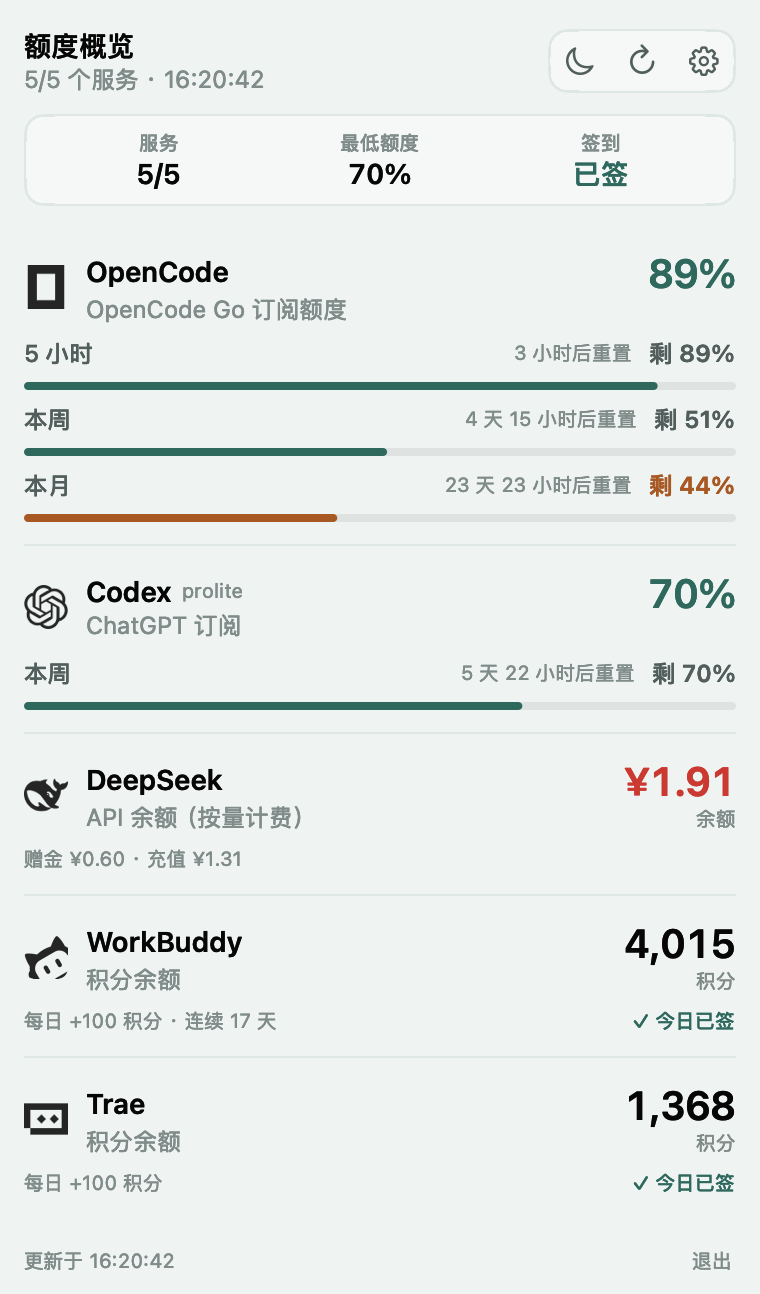
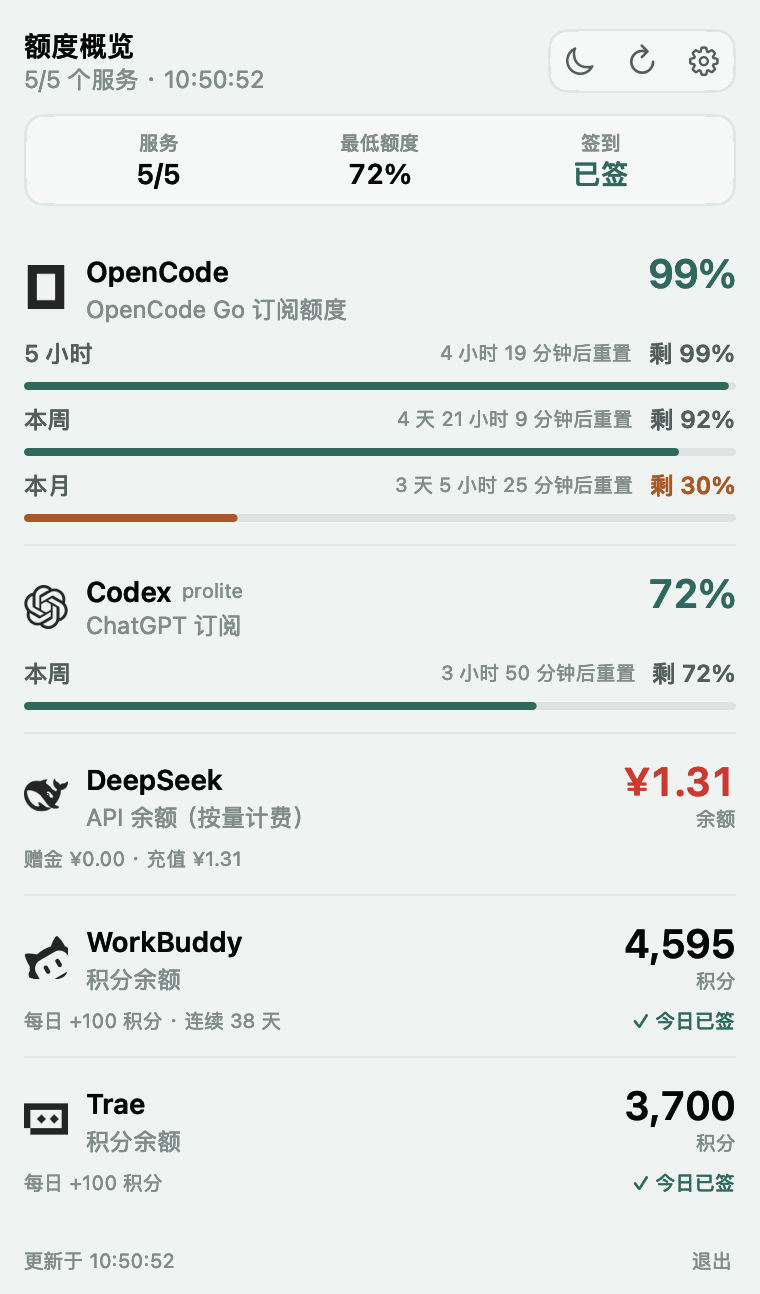
Precise minute resets and proxy fallback

diff --git a/collector/collector.js b/collector/collector.js
@@ -95,33 +95,47 @@ function proxyFor(url) {
 function http(url, opts = {}) {
   const { method = 'GET', headers = {}, body = null, timeout = 25 } = opts;
   const proxy = proxyFor(url);
-  const args = ['-sS', '--compressed', '-m', String(timeout), '-w', '\n__AQB_STATUS__%{http_code}'];
-  if (proxy) args.push('--proxy', proxy);
-  for (const [k, v] of Object.entries(headers)) {
-    if (v !== undefined && v !== null && v !== '') args.push('-H', `${k}: ${v}`);
-  }
-  if (body !== null) args.push('--data-binary', body);
-  args.push(url);
+  // 代理优先；代理挂掉/端口没开时再直连，避免换网络后一直超时。
+  const candidates = [];
+  if (proxy) candidates.push(proxy);
+  candidates.push(null);
 
-  let out;
-  try {
-    out = execFileSync('curl', args, {
-      encoding: 'utf8',
-      maxBuffer: 16 * 1024 * 1024,
-      timeout: (timeout + 5) * 1000,
-    });
-  } catch (e) {
-    const msg = String(e.stderr || e.message || e).trim().split('\n')[0];
-    throw new Error(`网络请求失败（${new URL(url).hostname}）：${msg}`);
+  let firstError = null;
+  let lastError = null;
+  for (const candidate of candidates) {
+    const args = ['-sS', '--compressed', '-m', String(timeout), '-w', '\n__AQB_STATUS__%{http_code}'];
+    if (candidate) args.push('--proxy', candidate);
+    else if (proxy) args.push('--noproxy', '*');
+    for (const [k, v] of Object.entries(headers)) {
+      if (v !== undefined && v !== null && v !== '') args.push('-H', `${k}: ${v}`);
+    }
+    if (body !== null) args.push('--data-binary', body);
+    args.push(url);
+
+    let out;
+    try {
+      out = execFileSync('curl', args, {
+        encoding: 'utf8',
+        maxBuffer: 16 * 1024 * 1024,
+        timeout: (timeout + 5) * 1000,
+      });
+    } catch (e) {
+      const msg = String(e.stderr || e.message || e).trim().split('\n')[0];
+      const error = `网络请求失败（${new URL(url).hostname}）：${msg}`;
+      if (!firstError) firstError = error;
+      lastError = error;
+      continue;
+    }
+    const match = out.match(/__AQB_STATUS__(\d+)\s*$/);
+    const status = match ? Number(match[1]) : 0;
+    const text = match ? out.slice(0, match.index) : out;
+    let json = null;
+    try {
+      json = JSON.parse(text);
+    } catch {}
+    return { status, text, json };
   }
-  const match = out.match(/__AQB_STATUS__(\d+)\s*$/);
-  const status = match ? Number(match[1]) : 0;
-  const text = match ? out.slice(0, match.index) : out;
-  let json = null;
-  try {
-    json = JSON.parse(text);
-  } catch {}
-  return { status, text, json };
+  throw new Error(firstError || lastError || '网络请求失败');
 }
 
 function pick(obj, ...paths) {
@@ -155,14 +169,21 @@ function fmtMoney(n, currency) {
 function fmtReset(ts) {
   if (!ts) return '';
   const diff = Math.max(0, ts - Date.now());
-  const mins = Math.round(diff / 60000);
-  if (mins < 1) return '即将重置';
-  if (mins < 60) return `${mins} 分钟后重置`;
-  const hours = Math.floor(mins / 60);
-  if (hours < 48) return `${hours} 小时后重置`;
-  const days = Math.floor(hours / 24);
-  const rest = hours % 24;
-  return rest === 0 ? `${days} 天后重置` : `${days} 天 ${rest} 小时后重置`;
+  const totalMinutes = Math.floor(diff / 60000);
+  if (totalMinutes < 1) return '即将重置';
+  const days = Math.floor(totalMinutes / 1440);
+  const hours = Math.floor((totalMinutes % 1440) / 60);
+  const mins = totalMinutes % 60;
+  if (days > 0) {
+    if (hours === 0 && mins === 0) return `${days} 天后重置`;
+    if (mins === 0) return `${days} 天 ${hours} 小时后重置`;
+    return `${days} 天 ${hours} 小时 ${mins} 分钟后重置`;
+  }
+  if (hours > 0) {
+    if (mins === 0) return `${hours} 小时后重置`;
+    return `${hours} 小时 ${mins} 分钟后重置`;
+  }
+  return `${mins} 分钟后重置`;
 }
 
 function fmtDate(ts) {
